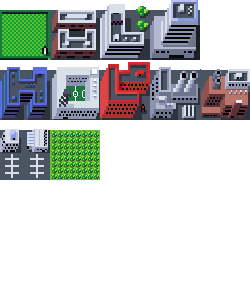
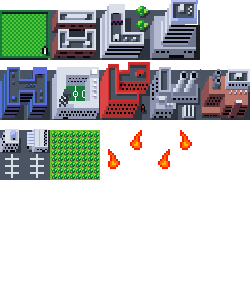
fire implemented + catastrophe

diff --git a/Source/Model/GameModel.cpp b/Source/Model/GameModel.cpp
@@ -1,4 +1,5 @@
 #include "GameModel.h"
+#include "GameField.h"
 #include "IndustrialZone.h"
 #include "ServiceZone.h"
 #include "ResidentalZone.h"
@@ -172,6 +173,13 @@ bool GameModel::Demolition(Vector2 pos)
     return false;
 }
 
+void GameModel::CauseCatastrophe() {
+    printf("oi\n");
+    for (auto i : _fields) {
+        if (i->GetId() != ROADANDELECTRICPOLE && rand()%100 < 50) ((GameField*)i)->SetOnFire();
+    }
+}
+
 //Check if a pos is in the playing fields or not
 bool GameModel::checkCoordsNotInPlayField(INT_TOUPLE pos)
 {
@@ -237,7 +245,13 @@ void GameModel::Update()
     }
 
     // Building updates
-    for (Field* i : _fields) i->Update();
+    list<Field*>::iterator i = _fields.begin();
+    while (i != _fields.end()) {
+        if ((*i)->Update()) {
+            _fields.erase(i++);
+        } else i++;
+    }
+
 
     //Profit
     int total_residents = 0;

diff --git a/Source/Model/GameField.h b/Source/Model/GameField.h
@@ -12,7 +12,16 @@ public:
     GameField(Field field) : Field(field) {};
     ~GameField();
     virtual std::string GetDescription();
+    virtual bool Update() {
+        if (isOnFire) {
+            if (beenOnFire++ > 15 && rand()%100 < 20) return true;
+        }else if (rand()%100 < 10) SetOnFire();
+        return false;
+    }
     bool HasElectricity() { return hasElectricity; };
+    bool IsOnFire() { return isOnFire; }
+    void SetOnFire() { isOnFire = true; }
+    void Extinguish() { isOnFire = false; beenOnFire = 0; }
     std::string toString();
     
     //getterek/setterek ide
@@ -23,6 +32,7 @@ public:
     void SetHasElectricity(bool b) {hasElectricity = b;}
 
 protected: 
+    int beenOnFire = 0;
     bool hasElectricity = false;
     bool isOnFire = false;
     bool isConnectedToRoad = false;

diff --git a/Source/View/View.cpp b/Source/View/View.cpp
@@ -191,8 +191,9 @@ void View::Update()
             }
             if (!buildPos.empty())
                 buildPos.clear();
-            if (!buildPos.empty())
-                buildPos.clear();
+        }
+        if (IsKeyReleased(KEY_C)) {
+            _model->CauseCatastrophe();
         }
         // wheel action
         float wheel = GetMouseWheelMove();
@@ -268,6 +269,7 @@ void View::Render()
             else
             {
                 DrawTexturePro(Field::images, i->GetSourceRect(), i->GetDrawRect(), {0, 0}, 0.f, ((GameField*)i)->HasElectricity()?WHITE:DARKGRAY);
+                if (((GameField*)i)->IsOnFire()) DrawTexturePro(Field::images, fireSourceRect[(_model->stat._time%30)/15], i->GetDrawRect(), {0, 0}, 0.f, WHITE);
             }
         }
 

diff --git a/Source/Model/ResidentalZone.h b/Source/Model/ResidentalZone.h
@@ -19,10 +19,6 @@ public:
         DrawRectangleRec(rect, BROWN);
         DrawText(residents==0?"empty":STR(residents).c_str(), location.x, location.y, 24, WHITE);
     }
-
-    void Update() {
-        //if (residents == 0 && isConnectedToRoad && rand() < 0.05) residents = maxresidents;
-    }
     std::string GetDescription() {
         return GameField::GetDescription() + "\nResidents: " + STR(residents) + "\n has Forrest: " + (hasForest?"true":"false") + "\n Has Staidon: " + (hasStadion?"true":"false");
     }

diff --git a/Source/Model/PowerPlant.h b/Source/Model/PowerPlant.h
@@ -9,6 +9,7 @@ public:
     PowerPlant(FIELD_TYPES id,
            INT_TOUPLE location) : GameField(id, location) {
             //capacity = maxCapacity;
+            hasElectricity = true;
            }
 
     void Render() {
@@ -33,7 +34,7 @@ public:
     }
 
     int GetCapacity() {return capacity;}
-    int SetCapacity(int p) {capacity = p;}
+    void SetCapacity(int p) {capacity = p;}
 protected:
     int capacity = 10;
     bool hasElectricity = true;

diff --git a/Source/App/global.h b/Source/App/global.h
@@ -79,6 +79,8 @@ const std::map<FIELD_TYPES, Rectangle> SourceRects = {
     {POLICESTATION, {0, 60, 50, 60}}
 };
 
+const Rectangle fireSourceRect[2] = {{100, 120, 50, 60}, {150, 120, 50, 60}};
+
 //This can be tweaked any time to balace the game, maybe it can even scale with time or money spent, ect...
 //Scaleing wouldnt be that hard, int scale = x; 50*scale, 100*scale ...
 const std::map<FIELD_TYPES, int> BuildCosts = {

diff --git a/Source/Persistence/Field.h b/Source/Persistence/Field.h
@@ -60,7 +60,7 @@ class Field : public GameObject
             }
             DrawRectangleRec(rect, c); */
         };
-        virtual void Update() {};
+        virtual bool Update() { return false; };
 
         static Field* Factory(FIELD_TYPES id, INT_TOUPLE pos={0,0});
         static Field* Factory(FIELD_TYPES id, std::stringstream& ss);

diff --git a/Source/Model/Forest.h b/Source/Model/Forest.h
@@ -16,8 +16,9 @@ public:
         DrawRectangleRec(rect, GREEN);
         DrawText(STR((int)(age)).c_str(), location.x, location.y, 24, WHITE);
     }
-    void Update() {
+    bool Update() {
         age+=1/360.f;
+        return false;
     }
 
     // Returns the string representation of a Forest object

diff --git a/Source/View/View.h b/Source/View/View.h
@@ -35,7 +35,6 @@ class View
     ImgBtn* actionButtons[aBtnN];
     TimeButton* timeButtons[4];
     BUILD_TYPES buildID;
-    int resCounter = 0;
     std::vector<INT_TOUPLE> buildPos;
 };
 
